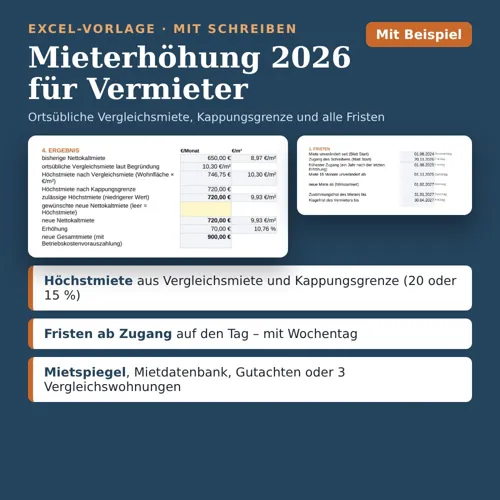
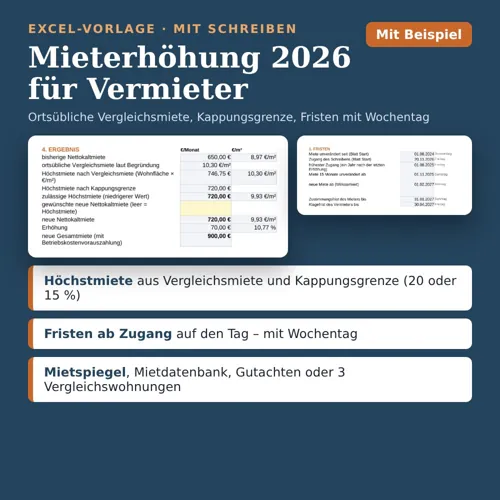
Produktseite Mieterhöhung 2026 (Bald verfügbar); Paket-Texte „4 Vorlagen“ statt „alle 4“
Claude-Session: https://claude.ai/code/session_0175UiJjZS6AvFwhkbq53yr1

diff --git a/docs/mieterhoehung.html b/docs/mieterhoehung.html
@@ -1,0 +1,66 @@
+<!doctype html>
+<html lang="de">
+<head>
+<meta charset="utf-8">
+<meta name="viewport" content="width=device-width, initial-scale=1">
+<title>Mieterhöhung Vorlage (Excel) 2026 – mit Fristen &amp; Schreiben</title>
+<meta name="description" content="Mieterhöhung 2026 als Excel-Vorlage: Vergleichsmiete, Kappungsgrenze und Fristen rechnen, Schreiben mit Zustimmungserklärung, auch Indexmiete. 9,90 €.">
+<link rel="stylesheet" href="style.css">
+<link rel="canonical" href="https://vermieterordner.de/mieterhoehung.html">
+<meta property="og:title" content="Mieterhöhung Vorlage (Excel) 2026 – mit Fristen &amp; Schreiben">
+<meta property="og:description" content="Mieterhöhung 2026 als Excel-Vorlage: Vergleichsmiete, Kappungsgrenze und Fristen rechnen, Schreiben mit Zustimmungserklärung, auch Indexmiete. 9,90 €.">
+<meta property="og:type" content="website">
+<meta property="og:url" content="https://vermieterordner.de/mieterhoehung.html">
+<meta property="og:locale" content="de_DE">
+<meta property="og:site_name" content="Vermieterordner">
+<meta property="og:image" content="https://vermieterordner.de/img/og.png">
+<meta name="p:domain_verify" content="6619a1c3e96181cb258971813ee2eca4">
+<link rel="icon" href="favicon.svg" type="image/svg+xml">
+<link rel="icon" href="favicon-48.png" sizes="48x48" type="image/png"><link rel="apple-touch-icon" href="apple-touch-icon.png">
+<meta name="theme-color" content="#24435C">
+<script type="application/ld+json">{"@context": "https://schema.org", "@type": "FAQPage", "mainEntity": [{"@type": "Question", "name": "Ersetzt die Vorlage eine Rechtsberatung?", "acceptedAnswer": {"@type": "Answer", "text": "Nein. Sie hilft bei Form, Fristen und Grenzen und formuliert das Schreiben. Ob die verlangte Miete der ortsüblichen Vergleichsmiete entspricht, entscheidet im Streitfall das Gericht. Bei Sonderfällen wie Fördermitteln oder unklaren Verträgen lassen Sie sich beraten."}}, {"@type": "Question", "name": "Sind Mietspiegelwerte enthalten?", "acceptedAnswer": {"@type": "Answer", "text": "Nein. Den Mietspiegel Ihrer Gemeinde und die passende Spanne tragen Sie selbst ein. Ist der Mietspiegel nicht allgemein zugänglich, fügen Sie ihn dem Schreiben bei."}}, {"@type": "Question", "name": "Läuft die Vorlage in Google Sheets?", "acceptedAnswer": {"@type": "Answer", "text": "Die Vorlage ist für Microsoft Excel (ab 2010) und LibreOffice gebaut und nutzt nur Funktionen, die beide beherrschen; geprüft wurde sie in LibreOffice. Google Sheets unterstützen wir bei dieser Vorlage nicht."}}, {"@type": "Question", "name": "Wie bekomme ich die Datei?", "acceptedAnswer": {"@type": "Answer", "text": "Nach Verkaufsstart: direkt nach der Zahlung über den Download-Link auf der Bestätigungsseite und zusätzlich per E-Mail von Digistore24."}}, {"@type": "Question", "name": "Für wen sind die Vorlagen gebaut?", "acceptedAnswer": {"@type": "Answer", "text": "Für private Vermieter von Wohnraum in Deutschland. Für Gewerberaum sind sie nicht gebaut. Was jede Vorlage genau abdeckt, steht auf der jeweiligen Produktseite."}}]}</script><script type="application/ld+json">{"@context": "https://schema.org", "@type": "BreadcrumbList", "itemListElement": [{"@type": "ListItem", "position": 1, "name": "Vermieterordner", "item": "https://vermieterordner.de/"}, {"@type": "ListItem", "position": 2, "name": "Mieterhöhung 2026", "item": "https://vermieterordner.de/mieterhoehung.html"}]}</script>
+</head>
+<body>
+<header><div class="wrap">
+<a class="brand" href="index.html" aria-label="Vermieterordner – Startseite"><svg class="mark" viewBox="0 0 64 64" aria-hidden="true" xmlns="http://www.w3.org/2000/svg"><rect width="64" height="64" rx="14" fill="#24435C"/><rect x="9" y="9" width="46" height="46" rx="10" fill="#F7F5F0"/><text x="27" y="44" text-anchor="middle" font-family="Georgia,serif" font-weight="700" font-size="32" fill="#24435C">V</text><circle cx="46" cy="20" r="4" fill="#C8692B"/><circle cx="46" cy="32" r="4" fill="#E9B44C"/><circle cx="46" cy="44" r="4" fill="#5B8E7D"/></svg><span class="serif">Vermieterordner</span></a>
+<nav aria-label="Hauptnavigation"><a href="index.html#produkte">Produkte</a><a href="rechner.html">Rechner</a><a href="ratgeber.html">Ratgeber</a><a class="navbuy" href="mieterhoehung.html#kaufen">Mieterhöhungs-Vorlage</a></nav>
+</div></header>
+<main>
+<div class="wrap hero">
+<div>
+<p class="eyebrow">Excel-Vorlage · Stand 2026</p>
+<h1 class="serif">Mieterhöhung 2026 – Excel-Vorlage mit Schreiben an den Mieter</h1>
+<p class="lead">Aktuelle Miete, Fläche und Begründung eintragen – die Vorlage rechnet, wann Sie die Erhöhung verlangen können, ab wann die neue Miete gilt und wie weit Vergleichsmiete und Kappungsgrenze reichen. Daraus entsteht das Erhöhungsschreiben mit Zustimmungserklärung. Für Indexmieten rechnet sie die Anpassung nach dem Verbraucherpreisindex und erstellt die Erklärung.</p>
+<span class="btn soon" aria-disabled="true">Bald verfügbar</span>
+<p class="note">Erscheint in Kürze: Die Vorlage ist fertig und geprüft, der Kauf über Digistore24 wird gerade eingerichtet.</p>
+</div>
+<div><picture><source type="image/webp" srcset="img/mieterhoehung-1-500.webp 500w, img/mieterhoehung-1.webp 1000w" sizes="(max-width:640px) 100vw, 460px"><img class="heroimg" src="img/mieterhoehung-1.jpg" width="1000" height="1000" alt="Produktbild Mieterhöhung 2026"></picture></div>
+</div>
+<figure class="strip"><picture class=""><source type="image/webp" srcset="img/foto/papiere-800.webp 800w, img/foto/papiere-1600.webp 1600w" sizes="100vw"><img src="img/foto/papiere.jpg" width="1600" height="918" alt="Unterlagen, Stift und Taschenrechner auf dem Tisch" loading="lazy"></picture><figcaption><span class="wrap">Einmal ausrechnen, dann schreiben: Fristen und Grenzen der Mieterhöhung.</span></figcaption></figure>
+<section class="band"><div class="wrap">
+<h2 class="serif">Das bekommen Sie</h2>
+<div class="split"><div><table class="spec"><tr><th>Produkt</th><td>Mieterhöhung 2026</td></tr><tr><th>Art</th><td>Digitales Produkt zum Herunterladen. Kein Versand, keine Installation, kein Abo.</td></tr><tr><th>Format</th><td>ZIP-Datei mit Excel-Vorlage (.xlsx, leer), ausgefülltem Beispiel und PDF-Kurzanleitung, Sprache Deutsch. Für Microsoft Excel und LibreOffice.</td></tr><tr><th>Inhalt</th><td>Arbeitsblätter Start (Eingaben, Ergebnis, 15 Prüfungen), Vergleichsmiete, Erhöhungsschreiben, Indexmiete, Indexschreiben und Info mit Rechtsgrundlagen</td></tr><tr><th>Lieferung</th><td>Nach Verkaufsstart: Download-Link sofort nach der Zahlung, zusätzlich per E-Mail</td></tr><tr><th>Preis</th><td><strong>9,90&nbsp;€ einmalig</strong></td></tr><tr><th>Für wen</th><td>private Vermieter von Wohnraum in Deutschland – für Erhöhungen auf die ortsübliche Vergleichsmiete (§&nbsp;558 BGB) und bei vereinbarter Indexmiete (§&nbsp;557b BGB); nicht für Staffelmiete, Inklusivmiete, preisgebundenen Wohnraum, Gewerbe oder Modernisierungsmieterhöhungen</td></tr></table></div>
+<div class="shots"><picture><source type="image/webp" srcset="img/mieterhoehung-1-500.webp 500w, img/mieterhoehung-1.webp 1000w" sizes="(max-width:640px) 100vw, 360px"><img src="img/mieterhoehung-1.jpg" width="1000" height="1000" alt="Ergebnis mit Höchstmiete und Fristen" loading="lazy"></picture><picture><source type="image/webp" srcset="img/mieterhoehung-2-500.webp 500w, img/mieterhoehung-2.webp 1000w" sizes="(max-width:640px) 100vw, 360px"><img src="img/mieterhoehung-2.jpg" width="1000" height="1000" alt="Erhöhungsschreiben nach § 558 BGB" loading="lazy"></picture><picture><source type="image/webp" srcset="img/mieterhoehung-3-500.webp 500w, img/mieterhoehung-3.webp 1000w" sizes="(max-width:640px) 100vw, 360px"><img src="img/mieterhoehung-3.jpg" width="1000" height="1000" alt="Indexmiete und Prüfungen" loading="lazy"></picture></div></div>
+</div></section>
+<section><div class="wrap"><h2 class="serif">Was das Produkt kann</h2><div class="grid2"><div class="feat"><h3>Fristen mit Wochentag</h3><p>Frühester Zugang nach der Jahressperrfrist, 15 Monate unveränderte Miete, Zustimmung bis Ende des zweiten Monats nach Zugang, neue Miete ab Beginn des dritten Monats und Klagefrist – jeweils mit Datum und Wochentag.</p></div><div class="feat"><h3>Kappungsgrenze 20&nbsp;% oder 15&nbsp;%</h3><p>Die Vorlage rechnet den Stichtag drei Jahre vor dem Erhöhungstermin aus. Sie tragen die Miete an diesem Tag ein, die Vorlage rechnet die Höchstmiete. Erhöhungen wegen Modernisierung oder Betriebskosten zählen nicht mit. Ob in Ihrer Gemeinde 15&nbsp;% gelten, sehen Sie in der Verordnung Ihres Landes nach.</p></div><div class="feat"><h3>Vier Begründungsmittel</h3><p>Mietspiegel mit Spanne, Auskunft aus einer Mietdatenbank, Gutachten oder drei bis fünf Vergleichswohnungen. Sätze wie „liegt innerhalb der Spanne“ erscheinen im Schreiben nur, wenn sie für die verlangte Miete auch stimmen.</p></div><div class="feat"><h3>Schreiben mit Zustimmungserklärung</h3><p>Das Erhöhungsschreiben übernimmt Namen, Beträge, Termine und Begründung – in der Ich- oder Wir-Form. Solange eine Prüfung „Achtung“ meldet, steht „ENTWURF“ auf dem Schreiben.</p></div><div class="feat"><h3>Indexmiete nach dem VPI</h3><p>Alte und neue Indexstände eintragen, die Vorlage rechnet die neue Miete prozentual, prüft die Jahresfrist und erstellt die Erklärung in Textform. Die Indexwerte veröffentlicht das Statistische Bundesamt.</p></div><div class="feat"><h3>15 Prüfungen und ein Beispiel</h3><p>Warnungen etwa bei zu frühem Zugang, Miete über der Vergleichsmiete, überschrittener Kappungsgrenze, öffentlichen Fördermitteln oder Staffelmiete. Ein ausgefülltes Beispiel zeigt eine Erhöhung mit Mietspiegel Schritt für Schritt.</p></div></div></div></section>
+<section><div class="wrap"><h2 class="serif">Kostenlos dazu</h2><div class="grid2"><a class="pcard" href="indexmiete-erhoehen.html"><div class="pbody"><h3>Indexmiete erhöhen – Berechnung, Erklärung und Fristen</h3><p>Neue Miete = Miete × neuer Index ÷ alter Index. Was in die Erklärung gehört, ab wann die neue Miete gilt und was die geplante Deckelung ändern würde.</p><div class="prow"><span class="more">Lesen →</span></div></div></a><a class="pcard" href="nebenkosten-vorauszahlung-anpassen.html"><div class="pbody"><h3>Nebenkosten-Vorauszahlung anpassen – so erhöhen Vermieter richtig</h3><p>Nach der Abrechnung per E-Mail oder Brief anpassen – aber nur auf eine angemessene Höhe: wie Sie rechnen, ab wann sie gilt und was der Mieter verlangen kann.</p><div class="prow"><span class="more">Lesen →</span></div></div></a><a class="pcard" href="umlagefaehige-nebenkosten.html"><div class="pbody"><h3>Umlagefähige Nebenkosten 2026 – die Liste nach Betriebskosten&shy;verordnung</h3><p>Alle 17 Kostenarten mit Beispielen – und welche Kosten Sie nie auf Mieter umlegen dürfen.</p><div class="prow"><span class="more">Lesen →</span></div></div></a></div></div></section>
+<section class="band"><div class="wrap faq">
+<h2 class="serif">Häufige Fragen</h2>
+<h3>Ersetzt die Vorlage eine Rechtsberatung?</h3><p>Nein. Sie hilft bei Form, Fristen und Grenzen und formuliert das Schreiben. Ob die verlangte Miete der ortsüblichen Vergleichsmiete entspricht, entscheidet im Streitfall das Gericht. Bei Sonderfällen wie Fördermitteln oder unklaren Verträgen lassen Sie sich beraten.</p><h3>Sind Mietspiegelwerte enthalten?</h3><p>Nein. Den Mietspiegel Ihrer Gemeinde und die passende Spanne tragen Sie selbst ein. Ist der Mietspiegel nicht allgemein zugänglich, fügen Sie ihn dem Schreiben bei.</p><h3>Läuft die Vorlage in Google Sheets?</h3><p>Die Vorlage ist für Microsoft Excel (ab 2010) und LibreOffice gebaut und nutzt nur Funktionen, die beide beherrschen; geprüft wurde sie in LibreOffice. Google Sheets unterstützen wir bei dieser Vorlage nicht.</p><h3>Wie bekomme ich die Datei?</h3><p>Nach Verkaufsstart: direkt nach der Zahlung über den Download-Link auf der Bestätigungsseite und zusätzlich per E-Mail von Digistore24.</p><h3>Für wen sind die Vorlagen gebaut?</h3><p>Für private Vermieter von Wohnraum in Deutschland. Für Gewerberaum sind sie nicht gebaut. Was jede Vorlage genau abdeckt, steht auf der jeweiligen Produktseite.</p>
+</div></section>
+<section id="kaufen" class="band"><div class="wrap buy">
+<h2 class="serif">Mieterhöhung 2026 – bald verfügbar</h2>
+<p class="sub2">Erscheint in Kürze: Die Vorlage ist fertig und geprüft, der Kauf über Digistore24 wird gerade eingerichtet.</p>
+<div class="price-big serif">9,90&nbsp;€</div>
+<span class="btn btn-lg soon" aria-disabled="true">Bald verfügbar</span>
+<p class="note">Preis inkl. gesetzlicher MwSt., sofern anfallend.</p>
+</div></section>
+</main>
+<footer><div class="wrap">
+<div class="fbrand"><a class="brand" href="index.html"><svg class="mark" viewBox="0 0 64 64" aria-hidden="true" xmlns="http://www.w3.org/2000/svg"><rect width="64" height="64" rx="14" fill="#24435C"/><rect x="9" y="9" width="46" height="46" rx="10" fill="#F7F5F0"/><text x="27" y="44" text-anchor="middle" font-family="Georgia,serif" font-weight="700" font-size="32" fill="#24435C">V</text><circle cx="46" cy="20" r="4" fill="#C8692B"/><circle cx="46" cy="32" r="4" fill="#E9B44C"/><circle cx="46" cy="44" r="4" fill="#5B8E7D"/></svg><span class="serif">Vermieterordner</span></a>
+<p>Excel-Vorlagen und kostenlose Rechner für private Vermieter in Deutschland. Stand 2026.</p></div>
+<nav aria-label="Fußzeile"><a href="index.html#produkte">Produkte</a><a href="rechner.html">Rechner</a><a href="ratgeber.html">Ratgeber</a><a href="impressum.html">Impressum</a><a href="datenschutz.html">Datenschutz</a><a href="mailto:hallo@solovorlagen.de">hallo@solovorlagen.de</a></nav>
+<p class="copy">© 2026 Vermieterordner · Felix Merklinger-Lötzsch</p>
+</div></footer>
+</body>
+</html>

diff --git a/docs/index.html b/docs/index.html
@@ -43,8 +43,10 @@
 <div class="ptxt"><h3><a href="wohnungsuebergabeprotokoll.html">Wohnungs&shy;übergabe&shy;protokoll</a></h3><p>Einzug und Auszug Raum für Raum protokollieren – mit Mängelliste, Zählern, Schlüsseln und Unterschriftsfeldern.</p><ul class="ticks"><li>Raum für Raum</li><li>Vergleich mit dem Einzug</li><li>Zähler und Schlüssel</li></ul></div>
 <div class="pbuy"><span class="price">9,90&nbsp;€</span><a class="btn btn-sm" href="wohnungsuebergabeprotokoll.html">Ansehen</a></div></article><article class="prow2"><a class="pthumb" href="anlage-v.html"><picture><source type="image/webp" srcset="img/anlagev-1-500.webp 500w, img/anlagev-1.webp 1000w" sizes="(max-width:640px) 100vw, 360px"><img src="img/anlagev-1.jpg" width="1000" height="1000" alt="Produktbild Anlage V 2026" loading="lazy"></picture></a>
 <div class="ptxt"><h3><a href="anlage-v.html">Anlage V 2026</a></h3><p>Mieteinnahmen, Werbungskosten und AfA je Objekt sammeln – mit Summen für die Anlage V und 12 Prüfungen.</p><ul class="ticks"><li>Einnahmen je Monat und Wohnung</li><li>Werbungskosten wie im Formular</li><li>Verbilligte Vermietung geprüft</li></ul></div>
-<div class="pbuy"><span class="price">12,90&nbsp;€</span><a class="btn btn-sm" href="anlage-v.html">Ansehen</a></div></article><article class="prow2"><a class="pthumb" href="vermieter-paket.html"><picture><source type="image/webp" srcset="img/vermieter-paket-1-500.webp 500w, img/vermieter-paket-1.webp 1000w" sizes="(max-width:640px) 100vw, 360px"><img src="img/vermieter-paket-1.jpg" width="1000" height="1000" alt="Produktbild Vermieter-Paket 2026" loading="lazy"></picture></a>
-<div class="ptxt"><h3><a href="vermieter-paket.html">Vermieter-Paket 2026</a></h3><p>Alle 4 Excel-Vorlagen in einem Download: Nebenkosten&shy;abrechnung, Kautions&shy;abrechnung, Wohnungs&shy;übergabe&shy;protokoll und Anlage V 2026.</p><ul class="ticks"><li>4 Vorlagen, je eine eigene Datei</li><li>Dieselben Dateien wie einzeln</li><li>14,70&nbsp;€ weniger als einzeln</li></ul></div>
+<div class="pbuy"><span class="price">12,90&nbsp;€</span><a class="btn btn-sm" href="anlage-v.html">Ansehen</a></div></article><article class="prow2"><a class="pthumb" href="mieterhoehung.html"><picture><source type="image/webp" srcset="img/mieterhoehung-1-500.webp 500w, img/mieterhoehung-1.webp 1000w" sizes="(max-width:640px) 100vw, 360px"><img src="img/mieterhoehung-1.jpg" width="1000" height="1000" alt="Produktbild Mieterhöhung 2026" loading="lazy"></picture></a>
+<div class="ptxt"><h3><a href="mieterhoehung.html">Mieterhöhung 2026</a></h3><p>Mieterhöhung auf die ortsübliche Vergleichsmiete oder nach Index rechnen – mit Fristen, Kappungsgrenze und fertigem Schreiben.</p><ul class="ticks"><li>Fristen mit Wochentag</li><li>Kappungsgrenze 20&nbsp;% oder 15&nbsp;%</li><li>Vier Begründungsmittel</li></ul></div>
+<div class="pbuy"><span class="price">9,90&nbsp;€<small class="cmp">Bald verfügbar</small></span><a class="btn btn-sm" href="mieterhoehung.html">Ansehen</a></div></article><article class="prow2"><a class="pthumb" href="vermieter-paket.html"><picture><source type="image/webp" srcset="img/vermieter-paket-1-500.webp 500w, img/vermieter-paket-1.webp 1000w" sizes="(max-width:640px) 100vw, 360px"><img src="img/vermieter-paket-1.jpg" width="1000" height="1000" alt="Produktbild Vermieter-Paket 2026" loading="lazy"></picture></a>
+<div class="ptxt"><h3><a href="vermieter-paket.html">Vermieter-Paket 2026</a></h3><p>4 Excel-Vorlagen in einem Download: Nebenkosten&shy;abrechnung, Kautions&shy;abrechnung, Wohnungs&shy;übergabe&shy;protokoll und Anlage V 2026.</p><ul class="ticks"><li>4 Vorlagen, je eine eigene Datei</li><li>Dieselben Dateien wie einzeln</li><li>14,70&nbsp;€ weniger als einzeln</li></ul></div>
 <div class="pbuy"><span class="price">32,90&nbsp;€<small class="cmp">einzeln zusammen 47,60&nbsp;€</small><small class="cmp">Bald verfügbar</small></span><a class="btn btn-sm" href="vermieter-paket.html">Ansehen</a></div></article></div>
 <p class="note">Einmalzahlung, kein Abo. Preise inkl. gesetzlicher MwSt., sofern anfallend.</p>
 </div></section>

diff --git a/docs/vermieter-paket.html b/docs/vermieter-paket.html
@@ -29,8 +29,8 @@
 <div class="wrap hero">
 <div>
 <p class="eyebrow">4 Excel-Vorlagen · Stand 2026</p>
-<h1 class="serif">Vermieter-Paket 2026 – alle 4 Excel-Vorlagen für private Vermieter</h1>
-<p class="lead">Die vier Vorlagen von Vermieterordner in einem Download: Nebenkosten&shy;abrechnung, Kautions&shy;abrechnung, Wohnungs&shy;übergabe&shy;protokoll und Anlage V 2026. Dieselben Dateien wie beim Einzelkauf – vom Einzug über die jährliche Abrechnung und die Steuererklärung bis zum Auszug.</p>
+<h1 class="serif">Vermieter-Paket 2026 – 4 Excel-Vorlagen für private Vermieter</h1>
+<p class="lead">Vier Vorlagen von Vermieterordner in einem Download: Nebenkosten&shy;abrechnung, Kautions&shy;abrechnung, Wohnungs&shy;übergabe&shy;protokoll und Anlage V 2026. Dieselben Dateien wie beim Einzelkauf – vom Einzug über die jährliche Abrechnung und die Steuererklärung bis zum Auszug.</p>
 <span class="btn soon" aria-disabled="true">Bald verfügbar</span>
 <p class="note">Erscheint in Kürze: Die Vorlagen sind fertig und geprüft, der Kauf über Digistore24 wird gerade eingerichtet.</p>
 </div>

diff --git a/docs/anlage-v.html b/docs/anlage-v.html
@@ -54,7 +54,7 @@
 <div class="price-big serif">12,90&nbsp;€</div>
 <a class="btn btn-lg" href="https://www.checkout-ds24.com/product/759897" rel="nofollow">Jetzt kaufen</a>
 <p class="note">Sichere Zahlung und Rechnung über Digistore24. Preis inkl. gesetzlicher MwSt., sofern anfallend.</p>
-<p class="bundlehint">Bald auch im <a href="vermieter-paket.html">Vermieter-Paket 2026</a> enthalten: alle 4 Vorlagen für 32,90&nbsp;€ (einzeln zusammen 47,60&nbsp;€).</p>
+<p class="bundlehint">Bald auch im <a href="vermieter-paket.html">Vermieter-Paket 2026</a> enthalten: 4 Vorlagen für 32,90&nbsp;€ (einzeln zusammen 47,60&nbsp;€).</p>
 </div></section>
 </main>
 <footer><div class="wrap">

diff --git a/docs/nebenkostenabrechnung.html b/docs/nebenkostenabrechnung.html
@@ -54,7 +54,7 @@
 <div class="price-big serif">14,90&nbsp;€</div>
 <a class="btn btn-lg" href="https://www.checkout-ds24.com/product/757557" rel="nofollow">Jetzt kaufen</a>
 <p class="note">Sichere Zahlung und Rechnung über Digistore24. Preis inkl. gesetzlicher MwSt., sofern anfallend.</p>
-<p class="bundlehint">Bald auch im <a href="vermieter-paket.html">Vermieter-Paket 2026</a> enthalten: alle 4 Vorlagen für 32,90&nbsp;€ (einzeln zusammen 47,60&nbsp;€).</p>
+<p class="bundlehint">Bald auch im <a href="vermieter-paket.html">Vermieter-Paket 2026</a> enthalten: 4 Vorlagen für 32,90&nbsp;€ (einzeln zusammen 47,60&nbsp;€).</p>
 </div></section>
 </main>
 <footer><div class="wrap">

diff --git a/docs/kautionsabrechnung.html b/docs/kautionsabrechnung.html
@@ -54,7 +54,7 @@
 <div class="price-big serif">9,90&nbsp;€</div>
 <a class="btn btn-lg" href="https://www.checkout-ds24.com/product/758283" rel="nofollow">Jetzt kaufen</a>
 <p class="note">Sichere Zahlung und Rechnung über Digistore24. Preis inkl. gesetzlicher MwSt., sofern anfallend.</p>
-<p class="bundlehint">Bald auch im <a href="vermieter-paket.html">Vermieter-Paket 2026</a> enthalten: alle 4 Vorlagen für 32,90&nbsp;€ (einzeln zusammen 47,60&nbsp;€).</p>
+<p class="bundlehint">Bald auch im <a href="vermieter-paket.html">Vermieter-Paket 2026</a> enthalten: 4 Vorlagen für 32,90&nbsp;€ (einzeln zusammen 47,60&nbsp;€).</p>
 </div></section>
 </main>
 <footer><div class="wrap">

diff --git a/docs/wohnungsuebergabeprotokoll.html b/docs/wohnungsuebergabeprotokoll.html
@@ -54,7 +54,7 @@
 <div class="price-big serif">9,90&nbsp;€</div>
 <a class="btn btn-lg" href="https://www.checkout-ds24.com/product/759547" rel="nofollow">Jetzt kaufen</a>
 <p class="note">Sichere Zahlung und Rechnung über Digistore24. Preis inkl. gesetzlicher MwSt., sofern anfallend.</p>
-<p class="bundlehint">Bald auch im <a href="vermieter-paket.html">Vermieter-Paket 2026</a> enthalten: alle 4 Vorlagen für 32,90&nbsp;€ (einzeln zusammen 47,60&nbsp;€).</p>
+<p class="bundlehint">Bald auch im <a href="vermieter-paket.html">Vermieter-Paket 2026</a> enthalten: 4 Vorlagen für 32,90&nbsp;€ (einzeln zusammen 47,60&nbsp;€).</p>
 </div></section>
 </main>
 <footer><div class="wrap">

diff --git a/src/gen_site.py b/src/gen_site.py
@@ -282,7 +282,7 @@ def bundle_hint(p):
         # Paket noch ohne Checkout: Hinweis sagt klar „bald“ und verlinkt die Paketseite (dort „Bald verfügbar“)
         pre = "Auch im" if b.get("checkout_url") else "Bald auch im"
         out += (f'<p class="bundlehint">{pre} <a href="{b["slug"]}.html">{esc(b["name"])}</a> enthalten: '
-                f'alle {n} Vorlagen für {money(b["price"])}' + (f' ({compare_txt(b)})' if compare_txt(b) else '') + '.</p>')
+                f'{n} Vorlagen für {money(b["price"])}' + (f' ({compare_txt(b)})' if compare_txt(b) else '') + '.</p>')
     return out
 
 
